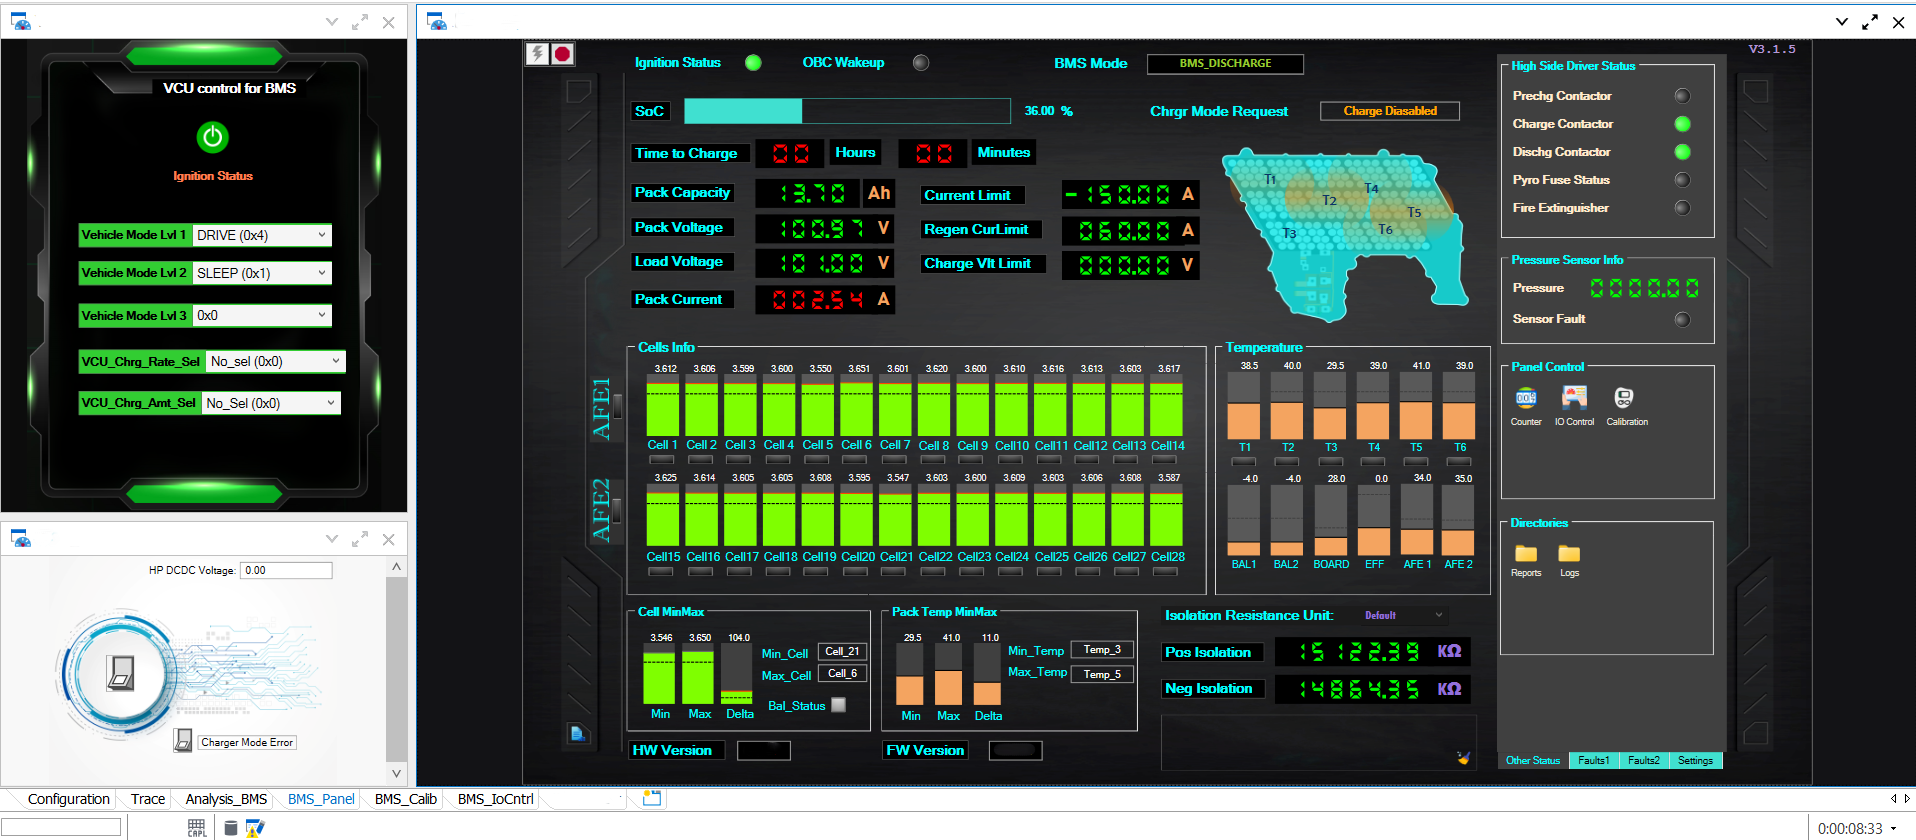
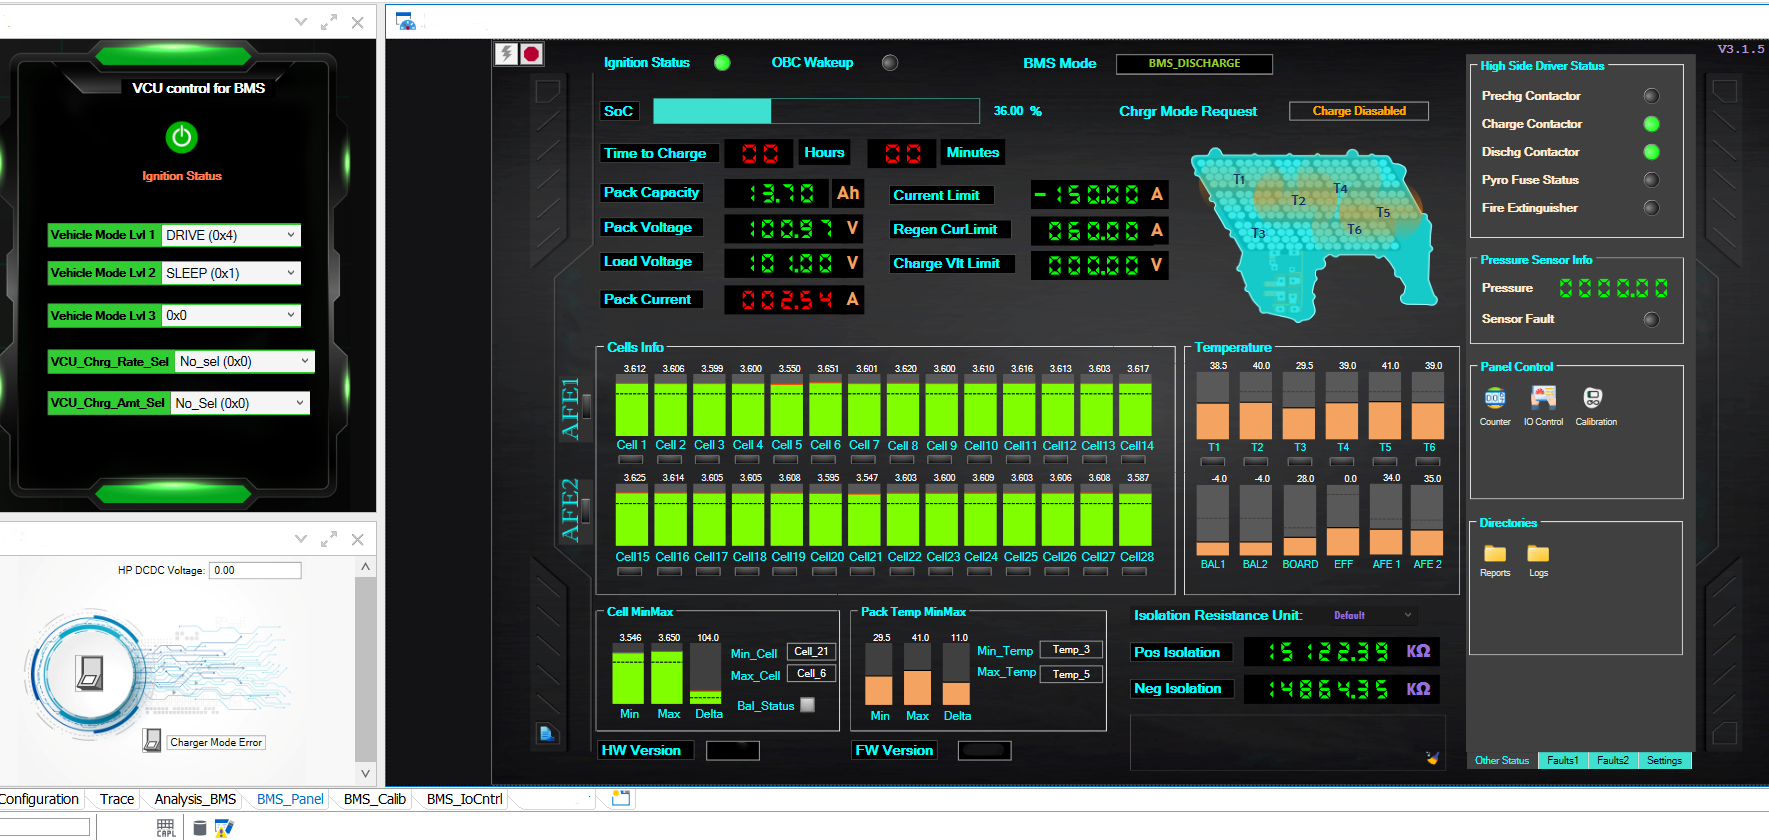
My Portfolio
Modified the format of the lists to look better in style.css

diff --git a/canoe-validation-suite.html b/canoe-validation-suite.html
@@ -115,11 +115,19 @@
           </li>
         </ul>
 
-        <h3>Stack</h3>
-        <p>
-          Vector CANoe, CANalyzer, CAPL scripting, CAPL DLL concepts, CAN communication, BMS signal
-          monitoring, fault injection, log analysis, embedded firmware validation.
-        </p>
+        <!-- TECH STACK CHIPS -->
+        <h3>Tech Stack</h3>
+        <div class="chips" style="margin-top:10px;">
+          <span>Vector CANoe</span>
+          <span>CANalyzer</span>
+          <span>CAPL scripting</span>
+          <span>CAPL DLL</span>
+          <span>CAN communication</span>
+          <span>BMS signal monitoring</span>
+          <span>fault injection</span>
+          <span>log analysis</span>
+          <span>embedded firmware validation</span>
+        </div>
 
         <h3>Impact</h3>
         <ul>
@@ -128,6 +136,47 @@
           <li>Reduced manual effort in repetitive validation flows using CAPL automation.</li>
           <li>Strengthened debug and verification coverage during BMS integration activities.</li>
         </ul>
+
+        <!-- OSCILLOSCOPE CAPTURES -->
+        <h3 style="margin-top:28px;">Screenshots</h3>
+        <!-- <p style="color:#99a8c4;font-size:13px;">Replace the placeholders below with your real screenshots exported from
+          the PPT slides.</p> -->
+
+        <div style="display:grid;grid-template-columns:1fr 1fr;gap:16px;margin-top:16px;">
+
+          <div style="border-radius:14px;overflow:hidden;border:1px solid rgba(255,255,255,.08);">
+            <img src="assets/lpcm-entry-waveform.png" alt="LPCM Entry Sequence Waveform"
+              style="width:100%;display:block;border-radius:14px 14px 0 0;">
+            <p style="padding:10px 14px;margin:0;font-size:12px;color:#99a8c4;background:rgba(255,255,255,.02);">
+              LPCM Entry Sequence — LDO1, PMIC, INTR, IsoSPI
+            </p>
+          </div>
+
+          <div style="border-radius:14px;overflow:hidden;border:1px solid rgba(255,255,255,.08);">
+            <img src="assets/intr-voltage-issue.png" alt="INTR Voltage Level Waveform"
+              style="width:100%;display:block;border-radius:14px 14px 0 0;">
+            <p style="padding:10px 14px;margin:0;font-size:12px;color:#99a8c4;background:rgba(255,255,255,.02);">
+              INTR Voltage — 600mV (before fix) vs 3.4V (after fix)
+            </p>
+          </div>
+
+          <div style="border-radius:14px;overflow:hidden;border:1px solid rgba(255,255,255,.08);">
+            <img src="assets/bms-canoe-panel.png" alt="BMS CANoe Panel"
+              style="width:100%;display:block;border-radius:14px 14px 0 0;">
+            <p style="padding:10px 14px;margin:0;font-size:12px;color:#99a8c4;background:rgba(255,255,255,.02);">
+              BMS Monitoring Panel — Vector CANoe
+            </p>
+          </div>
+
+          <div style="border-radius:14px;overflow:hidden;border:1px solid rgba(255,255,255,.08);">
+            <img src="assets/vcu-canoe-panel.png" alt="VCU Panel"
+              style="width:100%;display:block;border-radius:14px 14px 0 0;">
+            <p style="padding:10px 14px;margin:0;font-size:12px;color:#99a8c4;background:rgba(255,255,255,.02);">
+              VCU Control Panel — Vector CANoe
+            </p>
+          </div>
+
+        </div>
       </article>
     </section>
   </main>

diff --git a/bms-driver-stack.html b/bms-driver-stack.html
@@ -69,7 +69,7 @@
           diagnostics, functional safety, and fault management — all developed from scratch based only on ADI reference
           code intended for evaluation purposes only.
         </p>
-        <p>The in-house BMS has completed homologation and is targeted for production release by end of 2025, replacing
+        <p>The in-house BMS has completed homologation and is targeted for production release by end of 2026, replacing
           the currently outsourced BMS in the Flying Flea C6.</p>
 
         <!-- SYSTEM ARCHITECTURE -->
@@ -92,11 +92,9 @@
           <div style="font-weight:700;color:#eef4ff;">ADBMS6822 <span style="color:#7df0d1;">(IsoSPI Bridge IC)</span>
           </div>
           <div style="color:#49b2ff;">↕ IsoSPI</div>
-          <div style="font-weight:700;color:#eef4ff;">ADBMS6832 #1 <span style="color:#7df0d1;">(AFE1 — Cells
-              1–14)</span></div>
+          <div style="font-weight:700;color:#eef4ff;">ADBMS6832 #1 <span style="color:#7df0d1;">(AFE1)</span></div>
           <div style="color:#49b2ff;">↕ IsoSPI</div>
-          <div style="font-weight:700;color:#eef4ff;">ADBMS6832 #2 <span style="color:#7df0d1;">(AFE2 — Cells
-              15–28)</span></div>
+          <div style="font-weight:700;color:#eef4ff;">ADBMS6832 #2 <span style="color:#7df0d1;">(AFE2)</span></div>
           <div style="color:#49b2ff;">↕ IsoSPI</div>
           <div style="font-weight:700;color:#eef4ff;">ADBMS2950 <span style="color:#7df0d1;">(Pack Monitor IC)</span>
           </div>
@@ -119,8 +117,7 @@
           <li>Passive cell balancing using internal MOSFETs — <strong>PWM balancing method</strong> used to keep
             bleeding
             resistor temperature within safe range (supports up to 300 mA per cell)</li>
-          <li>Open-wire detection for all cell inputs and GPIO channels using the IC's redundant ADC and the calculation
-            method specified in the ADI ADBMS6832 Safety Manual</li>
+          <li>Open-wire detection for all cell inputs and GPIO channels using the IC's redundant ADCs.</li>
           <li>Internal IC parameter monitoring — triggers <strong>Cell Monitor Failure Fault</strong> if any abnormality
             detected</li>
           <li><strong>Low Power Cell Monitoring Mode (LPCM)</strong> — complete CDD from scratch including:
@@ -128,7 +125,7 @@
               <li>Configurable heartbeat period — IC wakes periodically, monitors, and returns to sleep</li>
               <li>OV/UV threshold configuration for cell voltages and GPIO channels</li>
               <li>INTR pin assertion handling for fault wake-up signaling</li>
-              <li>Cell balancing support during LPCM with configurable 6-minute timeout as failsafe</li>
+              <li>Cell balancing support during LPCM with configurable timeout as failsafe</li>
               <li>Full LPCM enable/disable sequence with all hardware and software pre-conditions satisfied</li>
             </ul>
           </li>
@@ -140,13 +137,18 @@
           <li>Battery pack current measurement via dual shunt input channels (I1 & I2) using 18-bit ADC — raw to ampere
             conversion</li>
           <li>Battery pack voltage and load voltage measurement via VBAT1 and VBAT2 channels</li>
-          <li>Isolation resistance measurement — complex multi-step logic before calculation implemented</li>
-          <li>Shunt temperature monitoring, fuse voltage sense acquisition</li>
-          <li>GPIO and GPO control for switching measurement input MOSFETs during low-power mode to reduce consumption
+          <li>Isolation resistance measurement — complex multi-step logic for readng data before calculation implemented
+          </li>
+          <li>Shunt temperature monitoring for shunt temperature compensation to improve battery current sensing
+            accuracy</li>
+          <li>Fuse voltage sensing to detect fuse failures (charge fuse & discharge fuse)</li>
+          <li>GPIO and GPO control for switching measurement input MOSFETs during low-power mode to reduce power
+            consumption
           </li>
           <li>Open-wire diagnostics for all ADC inputs (VBATx, Vx, Ix) — shunt sense short and open circuit detection
             implemented</li>
-          <li>Over-current detection configuration — OCA/OCB threshold configured via software in config register</li>
+          <li>HV line Over-current / Short Circuit detection — OCA/OCB outputs assertion based on the configured
+            threshold to blow the pyro fuse or to open the contactors instantly</li>
           <li>Internal IC parameter monitoring — triggers <strong>Pack Monitor Failure Fault</strong> if any abnormality
             detected</li>
           <li>Power supply management — load switch controlled by MCU to cut IC power during BMS low-power mode (IC has
@@ -165,13 +167,15 @@
           <li>PMIC <strong>LDT (Long Duration Timer)</strong> configured for periodic MCU wake-up as primary wake
             mechanism:
             <ul style="margin-top:6px;">
-              <li><strong>Every 5 minutes</strong> — when cell balancing is active (delta voltage above threshold)</li>
-              <li><strong>Every 30 minutes</strong> — when balancing is inactive</li>
+              <li><strong>Every 5 minutes (Configurable) &nbsp;&nbsp;&nbsp;</strong> — &nbsp; when cell balancing is active (delta voltage above
+                threshold)</li>
+              <li><strong>Every 30 minutes (Configurable)&nbsp;</strong> — &nbsp; when balancing is inactive</li>
             </ul>
           </li>
-          <li>Cell balancing timeout set to <strong>6 minutes</strong> in ADBMS6832 as failsafe — if 5-minute wake-up
+          <li>Cell balancing timeout set to <strong>6 minutes (Configurable)</strong> in ADBMS6832 as failsafe — if
+            5-minute wake-up
             does
-            not occur, balancing auto-stops at 6 minutes preventing over-discharge</li>
+            not occur, balancing auto-stops at 6th minute preventing over-discharge of cells</li>
         </ul>
 
         <!-- PMIC WAKEUP PROBLEM -->
@@ -278,25 +282,25 @@
         <ul>
           <li>Cell voltage OV/UV faults</li>
           <li>Temperature OT/UT faults</li>
-          <li>Open-wire faults (cell inputs and GPIO channels)</li>
-          <li>Cell Monitor Failure Fault (ADBMS6832 internal parameter monitoring)</li>
-          <li>Pack Monitor Failure Fault (ADBMS2950 internal parameter monitoring)</li>
-          <li>Over-current detection via OCA/OCB (ADBMS2950)</li>
+          <li>Thermal runaway detection (dT/dt & dv/dt)</li>
+          <li>Open-wire fault detection (For all ADC inputs)</li>
+          <li>Cell Monitor Failure Fault (IC Monitoring)</li>
+          <li>Pack Monitor Failure Fault (IC Monitoring)</li>
+          <li>HV line short circuit detection via OCA/OCB (ADBMS2950)</li>
           <li>Isolation resistance fault</li>
-          <li>All faults reported over CAN</li>
+          <li>Fuse failure faults</li>
         </ul>
 
         <!-- OUTCOMES -->
         <h3>Outcomes</h3>
         <ul>
           <li>Production-level BMS firmware delivered to <strong>MISRA C and ASIL-D</strong> standards</li>
-          <li>Complete CDD stack developed from scratch — no production reference available from ADI</li>
+          <li>Complete CDD stack developed from scratch</li>
           <li>28-cell pack (1S8P configuration) fully monitored with cell voltage, temperature, current, pack voltage,
             and
             isolation resistance</li>
-          <li>LPCM implemented with dual periodic wake-up strategy and 6-minute balancing failsafe</li>
-          <li>Homologation completed — firmware cleared for <strong>Royal Enfield Flying Flea C6</strong> in-house BMS
-            production release</li>
+          <li>LPCM implemented with dual periodic wake-up strategy</li>
+          <li>Homologation completed — AIS156 & AIS004 (EMI/EMC) - Component level & Vehicle level</li>
           <li>Hardware-level PMIC wake-up issue identified, root-caused, and resolved through oscilloscope debugging and
             schematic analysis</li>
         </ul>
@@ -333,8 +337,8 @@
 
         <!-- OSCILLOSCOPE CAPTURES -->
         <h3 style="margin-top:28px;">Oscilloscope Captures & Validation Evidence</h3>
-        <p style="color:#99a8c4;font-size:13px;">Replace the placeholders below with your real screenshots exported from
-          the PPT slides.</p>
+        <!-- <p style="color:#99a8c4;font-size:13px;">Replace the placeholders below with your real screenshots exported from
+          the PPT slides.</p> -->
 
         <div style="display:grid;grid-template-columns:1fr 1fr;gap:16px;margin-top:16px;">
 

diff --git a/cell-balancing-low-power.html b/cell-balancing-low-power.html
@@ -110,11 +110,22 @@
           <li>Designing behavior suitable for production firmware and automotive validation workflows.</li>
         </ul>
 
-        <h3>Stack</h3>
-        <p>
-          Embedded C, NXP S32K322, ADBMS6832, ADBMS2950, FS26 PMIC, SPI, CAN, Vector CANoe, CAPL,
-          oscilloscope-based debugging, automotive BMS firmware development.
-        </p>
+        <!-- TECH STACK CHIPS -->
+        <h3>Tech Stack</h3>
+        <div class="chips" style="margin-top:10px;">
+          <span>Embedded C</span>
+          <span>NXP S32K322</span>
+          <span>ADBMS6832</span>
+          <span>ADBMS2950</span>
+          <span>ADBMS6822</span>
+          <span>FS26 PMIC</span>
+          <span>SPI</span>
+          <span>CAN</span>
+          <span>Vector CANoe</span>
+          <span>CAPL</span>
+          <span>oscilloscope-based debugging</span>
+          <span>automotive BMS firmware</span>
+        </div>
 
         <h3>Impact</h3>
         <ul>

diff --git a/style.css b/style.css
@@ -515,6 +515,20 @@ a {
   text-justify: inter-word;
 }
 
+.card ul {
+  margin: 0 0 8px;
+  text-align: justify;
+  padding-left: 50px
+}
+
+.card li {
+  margin-bottom: 8px;
+  font-size: 15px;
+  text-align: justify;
+  text-justify: inter-word;
+  color: var(--muted);
+}
+
 .skills-grid {
   display: grid;
   grid-template-columns: repeat(3, 1fr);